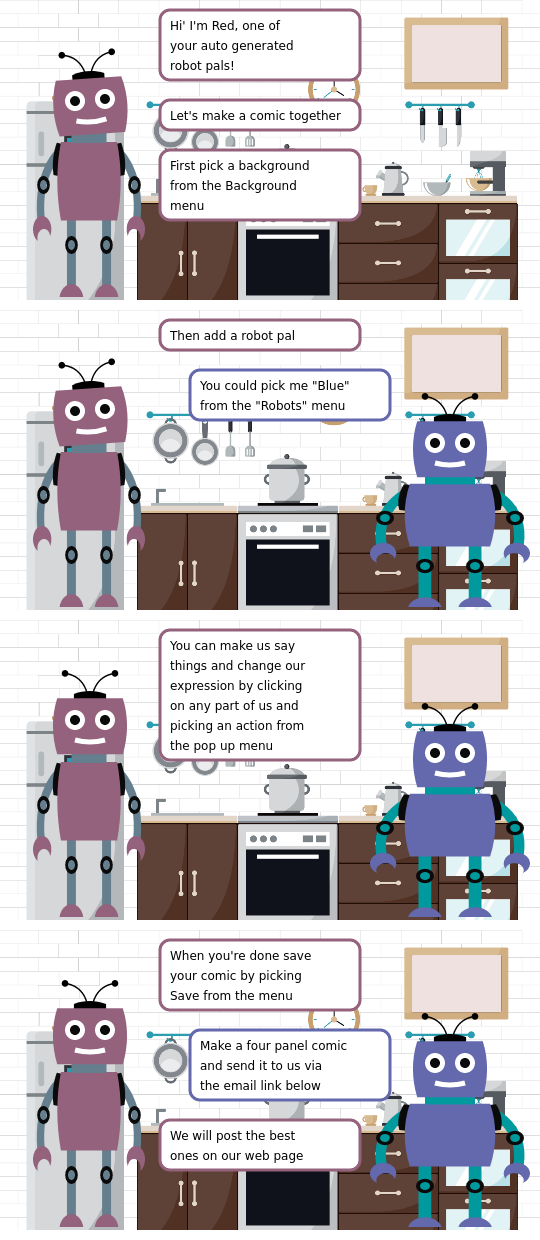
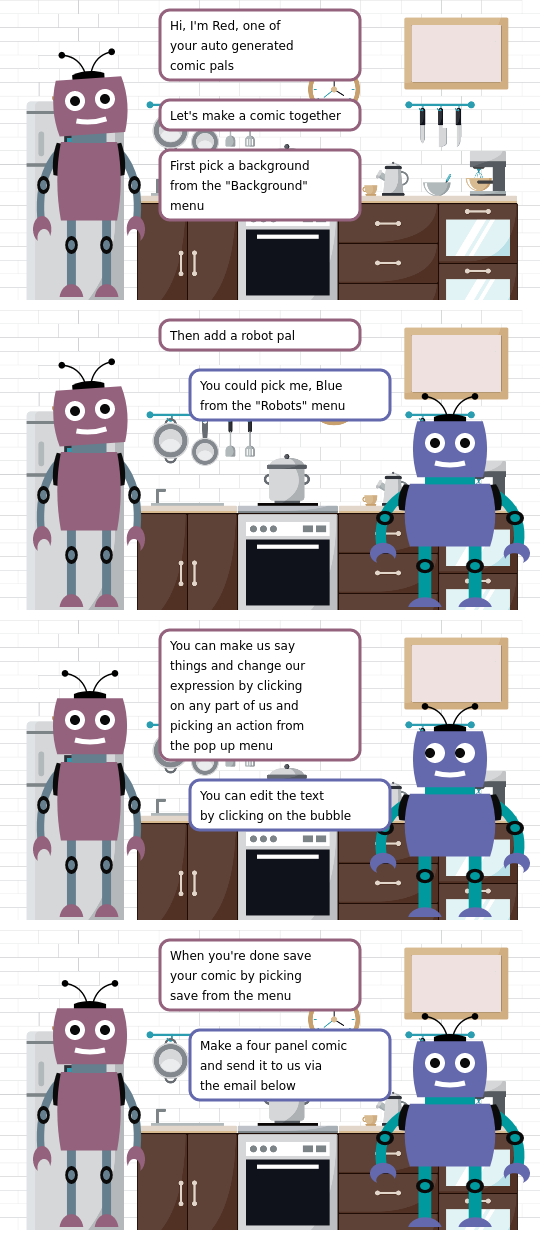
Editits

diff --git a/js/frame.js b/js/frame.js
@@ -1,6 +1,8 @@
 var active = null
 var frames = []
 var selectBot
+var selectBubble = null;
+var activeBubble = null
 var mainCanvas = document.createElement('canvas');
 mainCanvas.width = 540;
 mainCanvas.height =4*310;
@@ -13,7 +15,6 @@ function makeFrameClick(id) {
     return function (e) {
         let xpos = e.pageX - document.body.scrollLeft;
         let ypos = e.pageY - document.body.scrollTop;
-        console.log(xpos, ypos)
         let itm = document.getElementById("menu")
         itm.style.visibility = 'hidden'
         itm = document.getElementById("menuBack")
@@ -33,7 +34,6 @@ function makeClick(bot) {
         var rect = e.target.getBoundingClientRect();
         let xpos = e.pageX - document.body.scrollLeft;
         let ypos = e.pageY - document.body.scrollTop;
-        console.log(xpos, ypos)
         let itm = document.getElementById("menuBack")
         itm.style.visibility = 'hidden'
         itm = document.getElementById("menu")
@@ -41,6 +41,28 @@ function makeClick(bot) {
         itm.style.top = ypos - 20 + 'px'
         itm.style.left = xpos - 20 + 'px'
         selectBot = bot
+    }
+
+}
+
+function makeBubbleText(bubble) {
+    //console.log("make",bot)
+    return function (e) {
+        var rect = e.target.getBoundingClientRect();
+        let xpos = e.pageX - document.body.scrollLeft;
+        let ypos = e.pageY - document.body.scrollTop;
+        console.log(xpos, ypos)
+        let itm = document.getElementById("menuBack")
+        itm.style.visibility = 'hidden'
+        itm = document.getElementById("menu")
+        itm.style.visibility = 'hidden'
+        itm = document.getElementById("edittextarea");
+        itm.value=bubble.text;
+        itm = document.getElementById("edittext")
+        itm.style.visibility = 'visible'
+        itm.style.top = ypos - 20 + 'px'
+        itm.style.left = xpos - 20 + 'px'
+        selectBubble = bubble
     }
 
 }
@@ -143,8 +165,7 @@ class Frame {
         itm.style.visibility = 'hidden'
         toImage(this.svgid, this.backgroundImage,this.id*310); 
     }
-    setText(e, x, y) {
-        console.log(x, y)
+    setText(e) {
         let itm = document.getElementById("textarea")
         itm.value = ""
         itm.focus();
@@ -165,7 +186,6 @@ class Frame {
     setBubble() {
         let itm = document.getElementById("text")
         itm.style.visibility = 'hidden'
-
         itm = document.getElementById("textarea")
         var speechBubble = new SpeechBubble(itm.value, selectBot.bodyColor)
         this.frame.appendChild(speechBubble.group)
@@ -173,8 +193,47 @@ class Frame {
         if (selectBot.pos == 1) {
             xPos = 190
         }
+        speechBubble.xpos = xPos
         speechBubble.group.setAttribute("transform", "translate(" + xPos + "," + this.bubbleYPos + ")")
+        speechBubble.ypos = this.bubbleYPos; 
         this.bubbleYPos += speechBubble.group.getBBox().height + 20
+        toImage(this.svgid, this.backgroundImage,this.id*310); 
+        speechBubble.group.addEventListener("click", makeBubbleText(speechBubble))
+        if(activeBubble != null){
+            console.log(activeBubble)
+            activeBubble.next = speechBubble;
+            console.log(activeBubble.xpos)
+            console.log("next",activeBubble.next.xpos)
+        }
+        activeBubble= speechBubble;
+
+    }
+
+    editBubble() {
+        let x = selectBubble.xpos;
+        let y = selectBubble.ypos;
+        let itm = document.getElementById("edittext")
+        itm.style.visibility = 'hidden'
+
+        itm = document.getElementById("edittextarea")
+        var speechBubble = new SpeechBubble(itm.value, selectBubble.color)
+        speechBubble.xpos = x
+        speechBubble.ypos = y;
+        this.frame.appendChild(speechBubble.group)
+        speechBubble.group.setAttribute("transform", "translate(" + x+ "," + y+ ")")
+        speechBubble.group.addEventListener("click", makeBubbleText(speechBubble))
+        speechBubble.next = selectBubble.next;
+        let dif = speechBubble.group.getBBox().height  - selectBubble.group.getBBox().height
+        this.bubbleYPos += dif
+        let next = speechBubble.next
+        while( next != null){
+            console.log("*",next.ypos)
+            next.ypos += dif
+            console.log(next.ypos)
+            next.group.setAttribute("transform", "translate(" + next.xpos+ "," + next.ypos+ ")")
+            next = next.next;
+        }
+        selectBubble.clear()
         toImage(this.svgid, this.backgroundImage,this.id*310); 
     }
 }

diff --git a/js/robot.js b/js/robot.js
@@ -369,7 +369,11 @@ Robot.prototype.expression = function (expression) {
 
 SpeechBubble = function (text, color) {
 
-
+    this.xpos = 0;
+    this.ypos = 0;
+    this.next = null;
+    this.color = color;
+    this.text = text;
     words = text.split(" ")
     var lines = []
     var l = 0
@@ -397,7 +401,7 @@ SpeechBubble = function (text, color) {
     this.group.appendChild(frame)
     var yPos = 20
     for (l in lines) {
-        var speech = SVG("text")
+        speech = SVG("text")
         speech.setAttribute("font-family","sans-serif")
         speech.setAttribute("font-size","12px")
         speech.setAttribute("x", 10)
@@ -412,3 +416,11 @@ SpeechBubble = function (text, color) {
 
 }
 
+SpeechBubble.prototype.clear= function(){
+    elm = this.group
+    if (elm != null) {
+        while (elm.firstChild) {
+            elm.removeChild(elm.firstChild);
+        }
+    }
+}

diff --git a/robotsdev02.html b/robotsdev02.html
@@ -184,7 +184,10 @@
         <button class="btn btn-primary" onclick="frames[active].setBubble()" style="margin:2px" ;>OK</button>
     </div>
 
-
+    <div id="edittext" class="menu-top">
+        <textarea id="edittextarea" rows="5" cols="18" autofocus="autofocus"></textarea>
+        <button class="btn btn-primary" onclick="frames[active].editBubble()" style="margin:2px" ;>OK2</button>
+    </div>
 
 
     <div class="flex-container">
